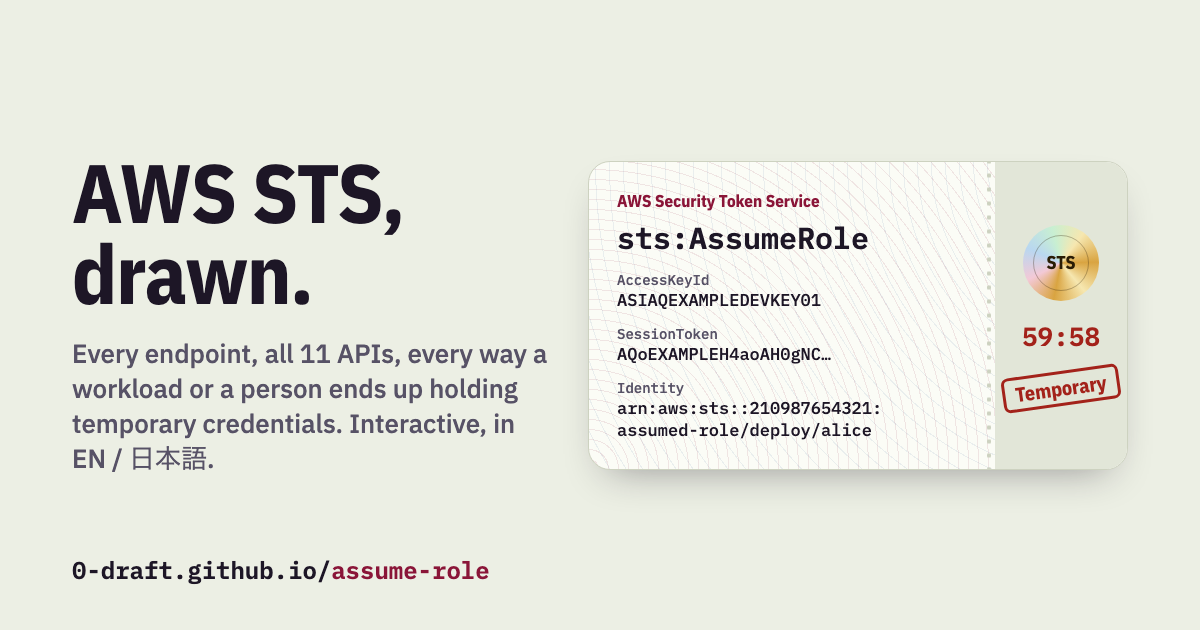
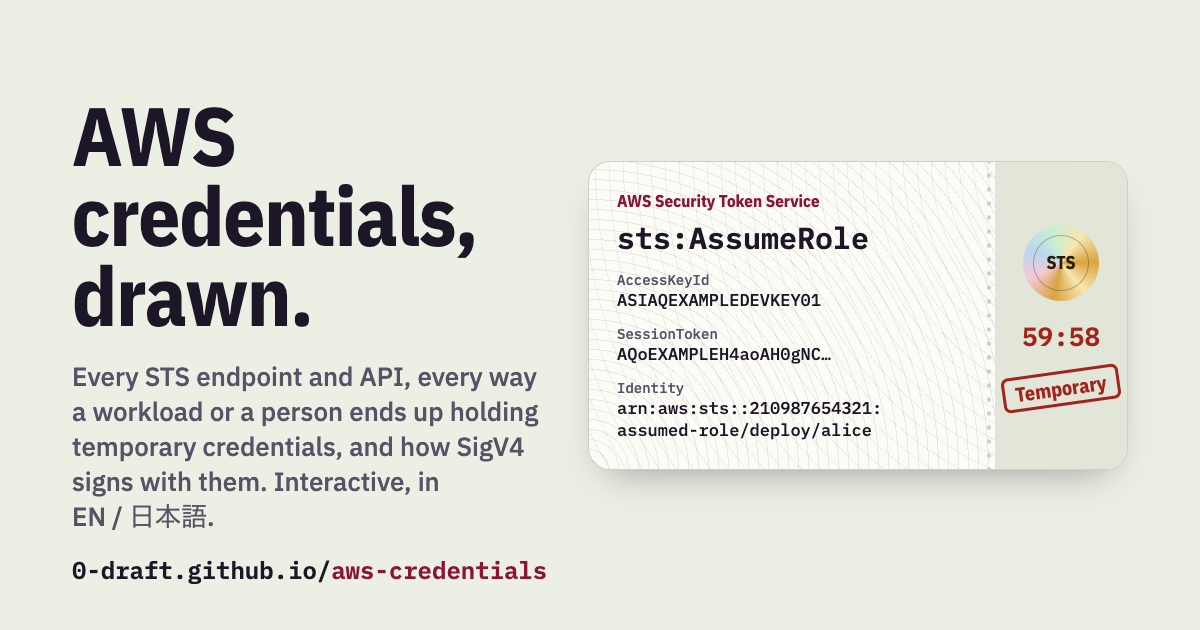
chore: rename the site to aws-credentials (#17)
Move the Pages base path, canonical/OG URLs, Playwright base URL, package
name, footer, badges and links to aws-credentials, retitle the site for its
broader scope (issuance and signing) and re-render the OG image. The
localStorage keys keep the old prefix so saved choices survive.

Changed region(s): [[0.0617, 0.1508, 0.4625, 0.8444], [0.2775, 0.8746, 0.4625, 0.9349]]

diff --git a/index.html b/index.html
@@ -3,21 +3,24 @@
   <head>
     <meta charset="UTF-8" />
     <meta name="viewport" content="width=device-width, initial-scale=1.0" />
-    <title>assume-role: AWS STS, drawn</title>
+    <title>aws-credentials: AWS credentials, drawn</title>
     <meta
       name="description"
-      content="AWS Security Token Service, drawn: global and regional endpoints, every STS API, every way a workload or a human ends up holding temporary credentials, session policies, role chaining and the errors you will meet. Bilingual (EN/JA)."
+      content="AWS credentials, drawn: how they are issued (STS global and regional endpoints, every STS API, every way a workload or a human ends up holding temporary credentials, session policies, role chaining, errors) and how they are used (SigV4 and SigV4a signing, presigned URLs, bearer API keys). Bilingual (EN/JA)."
     />
-    <link rel="canonical" href="https://0-draft.github.io/assume-role/" />
+    <link rel="canonical" href="https://0-draft.github.io/aws-credentials/" />
     <meta property="og:type" content="website" />
-    <meta property="og:site_name" content="assume-role" />
-    <meta property="og:title" content="assume-role: AWS STS, drawn" />
+    <meta property="og:site_name" content="aws-credentials" />
+    <meta property="og:title" content="aws-credentials: AWS credentials, drawn" />
     <meta
       property="og:description"
-      content="Every STS endpoint, all 11 APIs, every way a workload or a person ends up holding temporary credentials. Interactive, EN / 日本語."
+      content="Every STS endpoint, all 11 APIs, every way a workload or a person ends up holding temporary credentials, and how SigV4 signs every request with them. Interactive, EN / 日本語."
     />
-    <meta property="og:url" content="https://0-draft.github.io/assume-role/" />
-    <meta property="og:image" content="https://0-draft.github.io/assume-role/og.png" />
+    <meta property="og:url" content="https://0-draft.github.io/aws-credentials/" />
+    <meta
+      property="og:image"
+      content="https://0-draft.github.io/aws-credentials/og.png"
+    />
     <meta property="og:image:width" content="1200" />
     <meta property="og:image:height" content="630" />
     <meta
@@ -27,7 +30,8 @@
     <meta name="twitter:card" content="summary_large_image" />
     <meta name="theme-color" content="#8a1538" />
     <script>
-      // Apply a saved theme before first paint so it never flashes.
+      // Apply a saved theme before first paint so it never flashes. The key keeps
+      // the site's former name so saved choices survive the rename.
       try {
         const t = localStorage.getItem("assume-role:theme");
         if (t === "light" || t === "dark") document.documentElement.dataset.theme = t;

diff --git a/scripts/og/og.html b/scripts/og/og.html
@@ -159,10 +159,10 @@
   <body>
     <div class="wrap">
       <div>
-        <h1>AWS STS, drawn.</h1>
+        <h1>AWS credentials, drawn.</h1>
         <p>
-          Every endpoint, all 11 APIs, every way a workload or a person ends up holding
-          temporary credentials. Interactive, in
+          Every STS endpoint and API, every way a workload or a person ends up holding
+          temporary credentials, and how SigV4 signs with them. Interactive, in
           <span style="white-space: nowrap">EN / 日本語</span>.
         </p>
       </div>
@@ -185,6 +185,6 @@
         </div>
       </div>
     </div>
-    <div class="brand">0-draft.github.io/<b>assume-role</b></div>
+    <div class="brand">0-draft.github.io/<b>aws-credentials</b></div>
   </body>
 </html>

diff --git a/playwright.config.ts b/playwright.config.ts
@@ -13,7 +13,7 @@ export default defineConfig({
   retries: process.env.CI ? 1 : 0,
   reporter: process.env.CI ? [["github"], ["html", { open: "never" }]] : "list",
   use: {
-    baseURL: `http://localhost:${PORT}/assume-role/`,
+    baseURL: `http://localhost:${PORT}/aws-credentials/`,
     trace: "retain-on-failure",
   },
   projects: [
@@ -28,7 +28,7 @@ export default defineConfig({
   ],
   webServer: {
     command: `npm run build && npx vite preview --port ${PORT} --strictPort`,
-    url: `http://localhost:${PORT}/assume-role/`,
+    url: `http://localhost:${PORT}/aws-credentials/`,
     reuseExistingServer: !process.env.CI,
     timeout: 120_000,
   },

diff --git a/e2e/a11y.spec.ts b/e2e/a11y.spec.ts
@@ -6,7 +6,7 @@ import { expect, test } from "@playwright/test";
 for (const lang of ["en", "ja"] as const) {
   for (const scheme of ["light", "dark"] as const) {
     test(`no WCAG A/AA violations (${lang}, ${scheme})`, async ({ page }) => {
-      // axe walks the whole page (ten chapters); under a parallel run on a busy
+      // axe walks the whole page (eleven chapters); under a parallel run on a busy
       // machine that can pass the default 30 s.
       test.slow();
       await page.emulateMedia({ colorScheme: scheme });

diff --git a/vite.config.ts b/vite.config.ts
@@ -4,9 +4,9 @@ import react from "@vitejs/plugin-react";
 import tailwindcss from "@tailwindcss/vite";
 import { fileURLToPath } from "node:url";
 
-// Served from https://0-draft.github.io/assume-role/ on GitHub Pages.
+// Served from https://0-draft.github.io/aws-credentials/ on GitHub Pages.
 export default defineConfig({
-  base: process.env.BASE_PATH ?? "/assume-role/",
+  base: process.env.BASE_PATH ?? "/aws-credentials/",
   plugins: [react(), tailwindcss()],
   build: {
     rolldownOptions: {

diff --git a/src/i18n/LangContext.tsx b/src/i18n/LangContext.tsx
@@ -4,8 +4,8 @@ import { type Lang, readStoredLang, resolveInitialLang, storeLang } from "./lang
 import { LangContext, type LangValue } from "./context";
 
 const TITLE: Record<Lang, string> = {
-  en: "assume-role: AWS STS, drawn",
-  ja: "assume-role: 図解 AWS STS",
+  en: "aws-credentials: AWS credentials, drawn",
+  ja: "aws-credentials: 図解 AWS 認証情報",
 };
 
 export function LangProvider({

diff --git a/src/components/layout/Footer.tsx b/src/components/layout/Footer.tsx
@@ -21,9 +21,9 @@ export function Footer() {
         <p>
           <a
             className="underline underline-offset-2"
-            href="https://github.com/0-draft/assume-role"
+            href="https://github.com/0-draft/aws-credentials"
           >
-            github.com/0-draft/assume-role
+            github.com/0-draft/aws-credentials
           </a>
         </p>
       </div>

diff --git a/src/i18n/lang.ts b/src/i18n/lang.ts
@@ -5,6 +5,7 @@ export type Lang = (typeof LANGS)[number];
 export type L = Record<Lang, string>;
 
 export const DEFAULT_LANG: Lang = "en";
+// Former site name, kept so saved choices survive the rename.
 const STORAGE_KEY = "assume-role:lang";
 
 export function isLang(v: unknown): v is Lang {

diff --git a/src/components/layout/Header.tsx b/src/components/layout/Header.tsx
@@ -6,6 +6,7 @@ import { useActiveSection } from "@/hooks/useActiveSection";
 const IDS = NAV.map((n) => n.id);
 
 type Theme = "light" | "dark";
+// Former site name, kept so saved choices survive the rename.
 const THEME_KEY = "assume-role:theme";
 
 function currentTheme(): Theme {

diff --git a/README.ja.md b/README.ja.md
@@ -1,11 +1,13 @@
-# assume-role
+# aws-credentials
 
-[![ci](https://github.com/0-draft/assume-role/actions/workflows/ci.yml/badge.svg)](https://github.com/0-draft/assume-role/actions/workflows/ci.yml)
-[![codeql](https://github.com/0-draft/assume-role/actions/workflows/codeql.yml/badge.svg)](https://github.com/0-draft/assume-role/actions/workflows/codeql.yml)
+[![ci](https://github.com/0-draft/aws-credentials/actions/workflows/ci.yml/badge.svg)](https://github.com/0-draft/aws-credentials/actions/workflows/ci.yml)
+[![codeql](https://github.com/0-draft/aws-credentials/actions/workflows/codeql.yml/badge.svg)](https://github.com/0-draft/aws-credentials/actions/workflows/codeql.yml)
 
-AWS STS を図解するサイトです。英語と日本語に対応したインタラクティブな解説で、AWS Security Token Service のグローバルエンドポイントと、リージョン・FIPS・デュアルスタック・PrivateLink の各ホスト名、STS の API 11 個すべて、ワークロードや人が一時認証情報を手にするまでの全経路、それにまつわるポリシー・上限・エラーを扱います。
+AWS の認証情報を図解するサイトです。英語と日本語に対応したインタラクティブな解説で、認証情報がどう発行され、どう使われるかを扱います。発行の側では、AWS Security Token Service のグローバルエンドポイントと、リージョン・FIPS・デュアルスタック・PrivateLink の各ホスト名、STS の API 11 個すべて、ワークロードや人が一時認証情報を手にするまでの全経路、それにまつわるポリシー・上限・エラー。使う側では、ブラウザ内でその場で計算する SigV4 / SigV4a の署名、presigned URL、bearer 型の API キーです。
 
-**サイト:** <https://0-draft.github.io/assume-role/?lang=ja> ([English](https://0-draft.github.io/assume-role/))
+このリポジトリは 2026-11-08 まで `assume-role` という名前でした。その日に旧 `caller-identity` プロジェクト (リクエスト署名) を統合しています。
+
+**サイト:** <https://0-draft.github.io/aws-credentials/?lang=ja> ([English](https://0-draft.github.io/aws-credentials/))
 
 [English README](README.md)
 
@@ -35,7 +37,7 @@ Node.js 24 が必要です。
 
 ```bash
 npm ci
-npm run dev        # http://localhost:5173/assume-role/
+npm run dev        # http://localhost:5173/aws-credentials/
 npm run check      # 型チェック、lint、フォーマット、markdownlint、テスト、ビルド
 npm run test:e2e   # 実ブラウザでのチェック (要: npx playwright install chromium)
 ```

diff --git a/README.md b/README.md
@@ -1,11 +1,13 @@
-# assume-role
+# aws-credentials
 
-[![ci](https://github.com/0-draft/assume-role/actions/workflows/ci.yml/badge.svg)](https://github.com/0-draft/assume-role/actions/workflows/ci.yml)
-[![codeql](https://github.com/0-draft/assume-role/actions/workflows/codeql.yml/badge.svg)](https://github.com/0-draft/assume-role/actions/workflows/codeql.yml)
+[![ci](https://github.com/0-draft/aws-credentials/actions/workflows/ci.yml/badge.svg)](https://github.com/0-draft/aws-credentials/actions/workflows/ci.yml)
+[![codeql](https://github.com/0-draft/aws-credentials/actions/workflows/codeql.yml/badge.svg)](https://github.com/0-draft/aws-credentials/actions/workflows/codeql.yml)
 
-AWS STS, drawn. An interactive, bilingual (English / 日本語) explainer of the AWS Security Token Service: the global endpoint and every regional, FIPS, dual-stack and PrivateLink hostname, all 11 STS APIs, every path by which a workload or a person ends up holding temporary credentials, and the policies, limits and errors around them.
+AWS credentials, drawn. An interactive, bilingual (English / 日本語) explainer of how AWS credentials are issued and how they are used. Issuance: the AWS Security Token Service's global endpoint and every regional, FIPS, dual-stack and PrivateLink hostname, all 11 STS APIs, every path by which a workload or a person ends up holding temporary credentials, and the policies, limits and errors around them. Use: SigV4 and SigV4a signing computed live in the browser, presigned URLs and bearer API keys.
 
-**Site:** <https://0-draft.github.io/assume-role/> ([日本語](https://0-draft.github.io/assume-role/?lang=ja))
+This repository was called `assume-role` until 2026-11-08, when the former `caller-identity` project (request signing) was merged in.
+
+**Site:** <https://0-draft.github.io/aws-credentials/> ([日本語](https://0-draft.github.io/aws-credentials/?lang=ja))
 
 [日本語の README](README.ja.md)
 
@@ -35,7 +37,7 @@ Requires Node.js 24.
 
 ```bash
 npm ci
-npm run dev        # http://localhost:5173/assume-role/
+npm run dev        # http://localhost:5173/aws-credentials/
 npm run check      # typecheck, lint, format, markdownlint, tests, build
 npm run test:e2e   # real-browser checks (needs: npx playwright install chromium)
 ```

diff --git a/LICENSE-docs.md b/LICENSE-docs.md
@@ -2,6 +2,6 @@
 
 The contents of `docs/` are licensed under the [Creative Commons Attribution 4.0 International License (CC BY 4.0)](https://creativecommons.org/licenses/by/4.0/).
 
-You may share and adapt them for any purpose, including commercially, as long as you give appropriate credit: "assume-role (<https://github.com/0-draft/assume-role>)", link to the license, and indicate if changes were made.
+You may share and adapt them for any purpose, including commercially, as long as you give appropriate credit: "aws-credentials (<https://github.com/0-draft/aws-credentials>)", link to the license, and indicate if changes were made.
 
 Third-party facts and figures are cited to their original sources; those sources keep their own terms. Source code in this repository is licensed separately under the [MIT License](./LICENSE).
